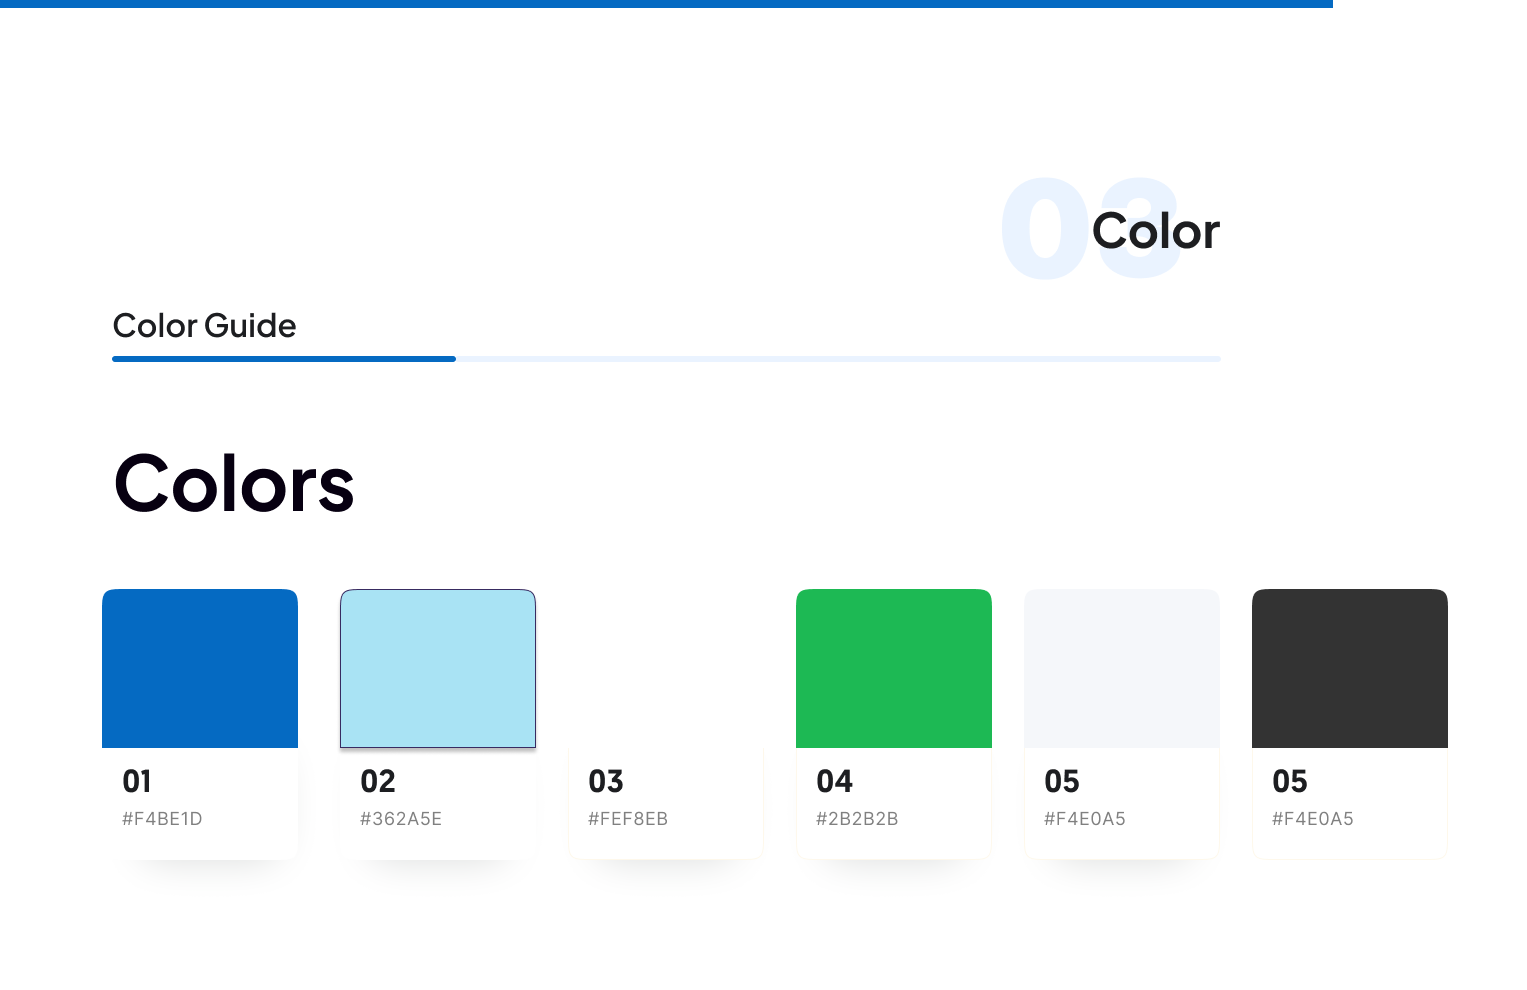
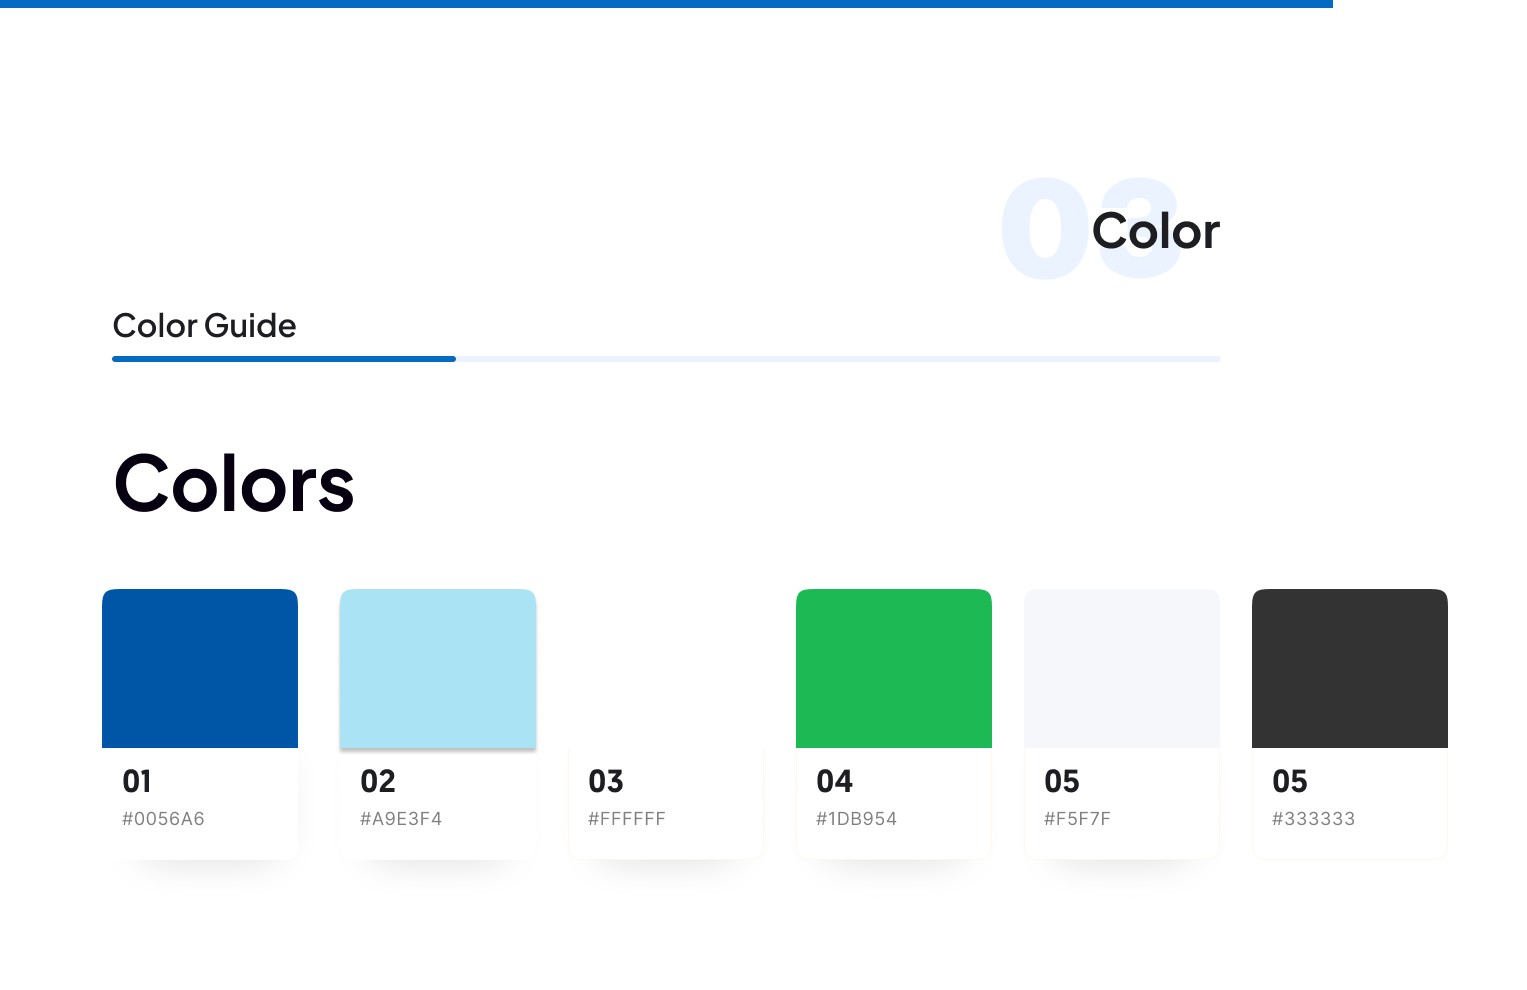
feat(style-guidelines): the color designs were added

diff --git a/README.md b/README.md
@@ -253,6 +253,99 @@ La paleta de colores incluye seis tonos principales, elegidos estratégicamente 
 
 <img src="./images/chapter-4/Color.png" alt="Moodle" width="400"/><br>
 
+<p align="justify">
+<strong>Color Primario:</strong><br>
+Azul fuerte (#0056A6): Este color es el más predominante en el diseño y se usa para el logo y los títulos principales. Aporta confianza y autoridad visual, además de mantener la sensación de calma que transmite la marca.
+</p>
+
+<p align="justify">
+<strong>Colores Secundarios:</strong><br>
+<ul>
+  <li>Azul fuerte (#0056A6): Utilizado en el logo y en títulos  principales para transmitir confianza, profesionalismo y dar   solidez visual a la marca.</li>
+  <li>Azul claro degradado (#A9E3F4 → #D6F5FA): Utilizado como fondo hero y en secciones para generar una atmósfera ligera y acogedora.</li>
+  <li>Verde botón principal (#1DB954): Empleado en el CTA principal para atraer la atención y favorecer la conversión. Es vibrante y destaca frente al azul.</li>
+  <li>Blanco de fondo (#FFFFFF): Color base para áreas de contenido, tarjetas y formularios, que asegura buena legibilidad.</li>
+  <li>Gris muy claro (background secciones) (#F5F7FA): Usado en secciones alternas o zonas de descanso visual para separar bloques sin romper la armonía.</li>
+  <li>Negro/gris oscuro para texto secundario (#333333): Color para textos secundarios, descripciones y elementos UI que requieren buena legibilidad sobre fondos claros.</li>
+</ul>
+</p>
+
+<p align="justify">
+<strong>Texto</strong><br>
+Todos los textos principales (títulos y subtítulos) emplean el color #0056A6 (Azul fuerte) para reforzar la identidad. Los textos de cuerpo y secundarios utilizan #333333 (Gris oscuro) para asegurar un alto contraste y una lectura fluida sobre fondos claros.
+La tipografía recomendada para toda la interfaz es <em>Open Sans</em> o una sans-serif similar por su legibilidad y aspecto moderno.
+</p>
+
+<p align="justify">
+<strong>Botones</strong><br>
+Los botones siguen un sistema de color funcional diseñado para claridad y accesibilidad:
+<ul>
+  <li>Botones de Acción Principal (CTA):
+    <ul>
+      <li>Fondo: #1DB954 (Verde botón principal)</li>
+      <li>Texto: #FFFFFF (Blanco)</li>
+      <li>Hover: Oscurecer levemente el fondo (ej. aplicar un 10% más de oscuridad o usar #17A644) para reforzar la retroalimentación visual.</li>
+      <li>Disabled: Fondo: #AFCFB8 (verde desaturado), Texto: #FFFFFF con opacidad 0.7.</li>
+    </ul>
+  </li>
+
+  <li>Botones de Acción Secundaria:
+    <ul>
+      <li>Fondo: #FFFFFF con borde 1.5px en #0056A6 (Azul fuerte) y texto en #0056A6.</li>
+      <li>Hover: Invertir colores (Fondo: #0056A6, Texto: #FFFFFF) o intensificar el borde para marcar la interacción.</li>
+    </ul>
+  </li>
+</ul>
+</p>
+
+<p align="justify">
+<strong>Formularios</strong><br>
+<ul>
+  <li>Los campos de texto siguen un diseño limpio con líneas delimitadoras delgadas (borde: 1px #E0E7EE o ligeramente más oscuro que #F5F7FA).</li>
+  <li>Placeholder: #9AA6B2 (gris suave). Texto de ayuda/errores: #D32F2F (rojo para errores) o #333333 para textos normales.</li>
+  <li>Indicadores como iconos de estado, tiempo y conectividad utilizan #0056A6 o variantes más suaves del azul para mantener coherencia.</li>
+</ul>
+</p>
+
+<p align="justify">
+<strong>Íconos y Sistema Visual</strong><br>
+<ul>
+  <li>Los íconos siguen un estilo de línea simple y claro, usando #333333 para versiones primarias y #0056A6 para íconos destacados o interactivos.</li>
+  <li>Se recomienda un set de íconos consistente (p. ej. estilo outline) para mantener la armonía visual y facilitar la comprensión sin sobrecargar la interfaz.</li>
+</ul>
+</p>
+
+<p align="justify">
+<strong>Estados de Hover y Feedback</strong><br>
+Cuando el usuario interactúa con botones o íconos, los colores de fondo se intensifican levemente para confirmar la acción:
+<ul>
+  <li>CTA (verde): hover = fondo ligeramente más oscuro (ej. reducción de luminosidad ~8–12%).</li>
+  <li>Botón secundario (outline azul): hover = fondo azul #0056A6 con texto blanco.</li>
+  <li>Sombras suaves y transiciones (0.12s–0.18s) ayudan a aumentar la percepción de interacción sin distraer.</li>
+</ul>
+</p>
+
+<p align="justify">
+<strong>Accesibilidad</strong><br>
+Se recomienda verificar contraste de color (AA/AAA) especialmente entre textos y fondos. Ejemplos:
+<ul>
+  <li>#333333 sobre #FFFFFF cumple contraste alto para textos.</li>
+  <li>#FFFFFF sobre #1DB954 debe probarse; si no alcanza contraste suficiente, considerar oscurecer el verde del CTA o usar un borde/halo para mejorar legibilidad.</li>
+</ul>
+</p>
+
+<p align="justify">
+<strong>Espaciado y Distribución</strong><br>
+El diseño se basa en un sistema modular de 8px, asegurando alineación precisa y consistencia visual entre todos los elementos. Márgenes y paddings principales:
+<ul>
+  <li>Spacing base: 8px</li>
+  <li>Padding de tarjetas: 24px (3×8)</li>
+  <li>Altura de botones: 40px–48px según prioridad</li>
+  <li>Gutter entre columnas: 24px–32px</li>
+</ul>
+</p>
+
+
 
 
 
